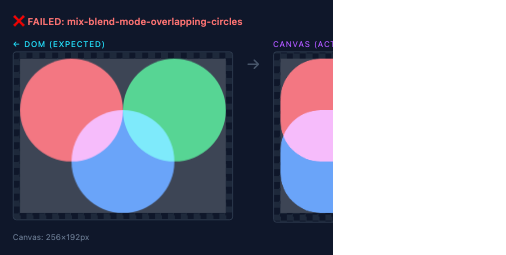
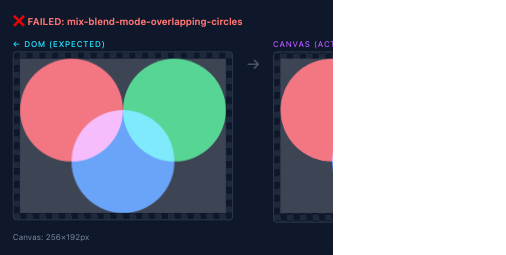
fix border radius

Changed region(s): [[0.5336, 0.4118, 0.6818, 0.851], [0.5632, 0.2196, 0.6522, 0.3294], [0.5336, 0.3294, 0.5632, 0.4118]]

diff --git a/packages/screenshot/src/index.test.ts b/packages/screenshot/src/index.test.ts
@@ -1589,6 +1589,69 @@ describe('screenshot', () => {
       // in this region because the transform was being applied twice.
       expect(greenBlueOverlap.g).toBeGreaterThan(200)
       expect(greenBlueOverlap.b).toBeGreaterThan(200)
+
+      // Compare to DOM-rendered version via snapshot
+      await expectCanvasToMatchSnapshot(
+        canvas,
+        'mix-blend-mode-overlapping-circles',
+        wrapper
+      )
+    })
+
+    it('border-radius 50% creates perfect circle (128px)', async () => {
+      // Regression test: verify that 50% border-radius creates a proper circle
+      // Using 128px specifically because 50% = 64px, not 50px
+      const wrapper = createElement({
+        width: '128px',
+        height: '128px',
+        backgroundColor: '#1e293b',
+        position: 'relative',
+      })
+
+      const circle = createElement({
+        position: 'absolute',
+        top: '0',
+        left: '0',
+        width: '128px',
+        height: '128px',
+        borderRadius: '50%',
+        backgroundColor: '#ef4444',
+      })
+
+      wrapper.appendChild(circle)
+      container.appendChild(wrapper)
+
+      const canvas = await screenshot.canvas(wrapper, { scale: 1 })
+
+      // Sample corners - they should be background color (circle should not touch corners)
+      const topLeftCorner = sampleArea(canvas, 3, 3, 2)
+      const topRightCorner = sampleArea(canvas, 124, 3, 2)
+      const bottomLeftCorner = sampleArea(canvas, 3, 124, 2)
+      const bottomRightCorner = sampleArea(canvas, 124, 124, 2)
+
+      // Corners should show background color (dark blue #1e293b ≈ rgb(30, 41, 59))
+      expect(topLeftCorner.r).toBeLessThan(100)
+      expect(topRightCorner.r).toBeLessThan(100)
+      expect(bottomLeftCorner.r).toBeLessThan(100)
+      expect(bottomRightCorner.r).toBeLessThan(100)
+
+      // Sample center - should be red
+      const center = sampleArea(canvas, 64, 64, 5)
+      expect(center.r).toBeGreaterThan(200)
+
+      // Sample midpoints of edges - should be red (circle touches edge centers)
+      const topCenter = sampleArea(canvas, 64, 2, 2)
+      const rightCenter = sampleArea(canvas, 125, 64, 2)
+      const bottomCenter = sampleArea(canvas, 64, 125, 2)
+      const leftCenter = sampleArea(canvas, 2, 64, 2)
+
+      expect(topCenter.r).toBeGreaterThan(200)
+      expect(rightCenter.r).toBeGreaterThan(200)
+      expect(bottomCenter.r).toBeGreaterThan(200)
+      expect(leftCenter.r).toBeGreaterThan(200)
+
+      // Visual comparison with DOM
+      await expectCanvasToMatchSnapshot(canvas, 'circle-128px', wrapper)
     })
   })
 

diff --git a/packages/screenshot/src/index.ts b/packages/screenshot/src/index.ts
@@ -4374,11 +4374,11 @@ function renderFormControl(
 
   // Only draw border if it's visible (has width and style is not 'none')
   if (borderWidth > 0 && borderStyle && borderStyle !== 'none') {
-  context.lineWidth = borderWidth
-  context.strokeStyle = borderColor
-  drawRoundedOrRect(() => {
-    context.stroke()
-  })
+    context.lineWidth = borderWidth
+    context.strokeStyle = borderColor
+    drawRoundedOrRect(() => {
+      context.stroke()
+    })
   }
 
   context.font = font
@@ -4826,27 +4826,55 @@ function getBorderRadii(
   const maxX = rect.width / 2
   const maxY = rect.height / 2
   const topLeft = clampRadius(
-    parseCssLength(style.borderTopLeftRadius),
+    parseBorderRadius(style.borderTopLeftRadius, rect.width, rect.height),
     maxX,
     maxY
   )
   const topRight = clampRadius(
-    parseCssLength(style.borderTopRightRadius),
+    parseBorderRadius(style.borderTopRightRadius, rect.width, rect.height),
     maxX,
     maxY
   )
   const bottomRight = clampRadius(
-    parseCssLength(style.borderBottomRightRadius),
+    parseBorderRadius(style.borderBottomRightRadius, rect.width, rect.height),
     maxX,
     maxY
   )
   const bottomLeft = clampRadius(
-    parseCssLength(style.borderBottomLeftRadius),
+    parseBorderRadius(style.borderBottomLeftRadius, rect.width, rect.height),
     maxX,
     maxY
   )
 
   return { topLeft, topRight, bottomRight, bottomLeft }
+}
+
+/**
+ * Parse a border-radius value, handling percentage values correctly.
+ * CSS border-radius percentages are relative to the corresponding dimension
+ * (width for horizontal, height for vertical). For single-value syntax,
+ * we use the minimum of both to create a uniform radius.
+ */
+function parseBorderRadius(
+  value: string | null | undefined,
+  width: number,
+  height: number
+): number {
+  if (!value) return 0
+  const trimmed = value.trim()
+  if (!trimmed) return 0
+
+  // Handle percentage values: "50%" should be 50% of the element size
+  if (trimmed.endsWith('%')) {
+    const percentage = parseFloat(trimmed)
+    if (!Number.isFinite(percentage)) return 0
+    // For a uniform border-radius, use the smaller dimension to ensure
+    // a proper circle on square elements and consistent curves on rectangles
+    return (percentage / 100) * Math.min(width, height)
+  }
+
+  // For non-percentage values, parse as regular CSS length
+  return parseCssLength(value)
 }
 
 function clampRadius(value: number, maxX: number, maxY: number): number {

diff --git a/.changeset/fix-border-radius.md b/.changeset/fix-border-radius.md
@@ -1,0 +1,5 @@
+---
+'@renoun/screenshot': patch
+---
+
+Fixes border-radius percentage values (e.g., `border-radius: 50%`) not being calculated correctly. Previously, `50%` was parsed as `50` pixels instead of being calculated as a percentage of the element's dimensions, resulting in non-circular shapes for elements larger than 100px.
